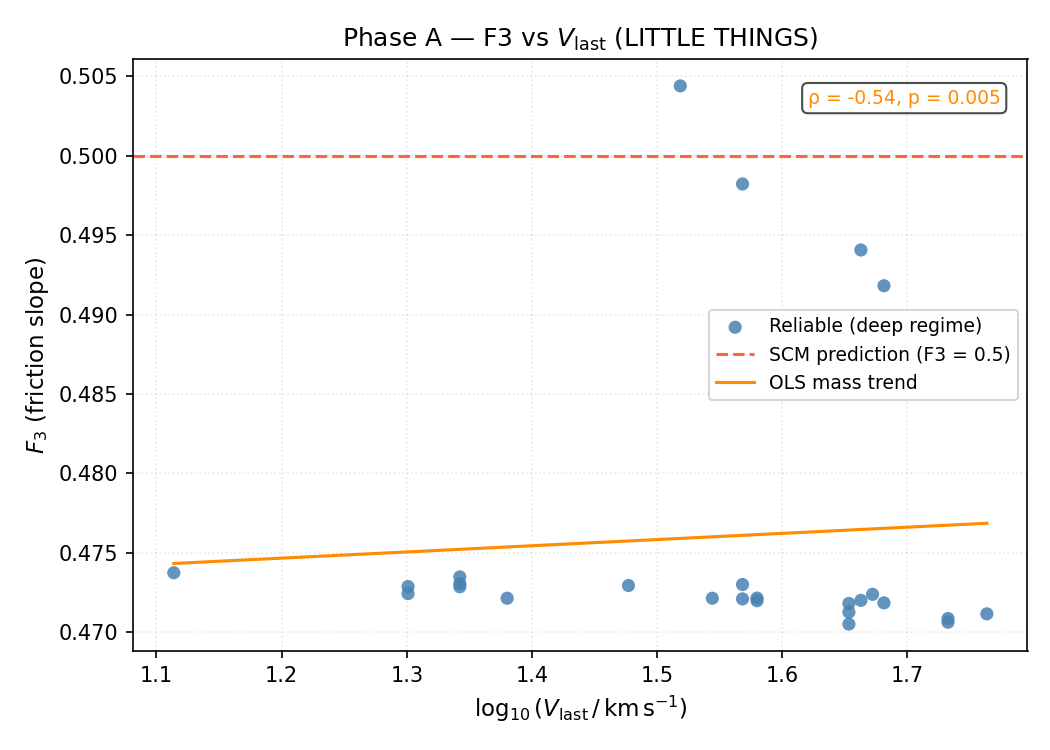
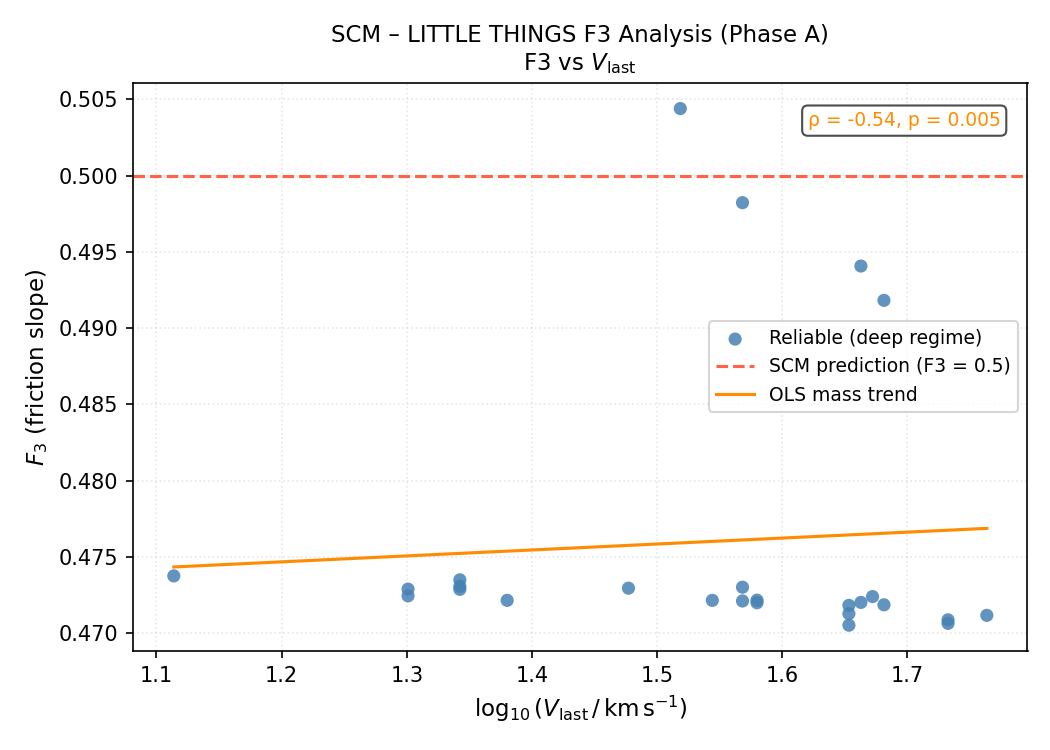
add ANALYSIS_TITLE, rename _save_faseA→_save_phaseA, strengthen threshold tests
Agent-Logs-Url: https://github.com/sergiocamaramadrid-cyber/Motor-de-Velos-SCM/sessions/d68a8b21-4a67-4b6f-82b2-01f2f682bac7

diff --git a/scripts/generate_little_things_scm.py b/scripts/generate_little_things_scm.py
@@ -1,5 +1,5 @@
 """
-scripts/generate_little_things_scm.py — SCM F3 analysis for LITTLE THINGS galaxies.
+scripts/generate_little_things_scm.py — SCM – LITTLE THINGS F3 Analysis (Phase A).
 
 Applies the F3 (friction slope) measurement to the LITTLE THINGS dwarf-galaxy
 sample using global photometric and kinematic properties.
@@ -32,8 +32,8 @@ Outputs written to --out DIR (default: results_little_things_scm):
   little_things_scm_catalog.csv   — full per-galaxy F3 catalog
   scm_clean_sample.csv            — reliable-fit subset
   scm_clean_with_residual.csv     — clean subset with explicit δF3 residual
-  summary.json                    — aggregate statistics
-  faseA_f3_vs_vlast.png           — Phase-A diagnostic: F3 vs log10(Vlast)
+  summary.json                    — aggregate statistics + analysis_title
+  faseA_f3_vs_vlast.png           — Phase A diagnostic: F3 vs log10(Vlast)
   scatter_f3_vlast.png            — scatter: F3 vs log10(Vlast)
   hist_f3.png                     — histogram of F3 values
   hist_delta_f3.png               — histogram of δF3 values
@@ -66,6 +66,7 @@ A0_DEFAULT: float = 1.2e-10        # characteristic acceleration (m/s²)
 DEEP_THRESHOLD_DEFAULT: float = 0.3  # deep regime: g_bar < threshold × a0
 
 EXPECTED_F3_MOND: float = 0.5      # expected friction slope in deep-MOND limit
+ANALYSIS_TITLE: str = "SCM \u2013 LITTLE THINGS F3 Analysis (Phase A)"
 
 # Required columns in the input CSV
 REQUIRED_COLS: list[str] = ["galaxy_id", "logM", "logVobs", "log_gbar", "log_j"]
@@ -366,6 +367,7 @@ def compute_summary(cat: pd.DataFrame) -> dict:
     corr_stats = compute_mass_correlation_stats(cat)
 
     return {
+        "analysis_title": ANALYSIS_TITLE,
         "n_galaxies": n_galaxies,
         "n_reliable": n_reliable,
         "f3_mean": f3_mean,
@@ -385,8 +387,8 @@ def compute_summary(cat: pd.DataFrame) -> dict:
 # Figures
 # ---------------------------------------------------------------------------
 
-def _save_faseA_f3_vs_vlast(cat: pd.DataFrame, out_path: Path) -> None:
-    """Phase-A diagnostic: F3 vs log10(Vlast), annotated with SCM prediction and
+def _save_phaseA_f3_vs_vlast(cat: pd.DataFrame, out_path: Path) -> None:
+    """Phase A diagnostic: F3 vs log10(Vlast), annotated with SCM prediction and
     OLS mass-trend line + Spearman ρ."""
     reliable = cat["reliable"]
     fig, ax = plt.subplots(figsize=(7, 5))
@@ -429,7 +431,7 @@ def _save_faseA_f3_vs_vlast(cat: pd.DataFrame, out_path: Path) -> None:
 
     ax.set_xlabel(r"$\log_{10}(V_{\rm last}\,/\,\rm km\,s^{-1})$", fontsize=11)
     ax.set_ylabel(r"$F_3$ (friction slope)", fontsize=11)
-    ax.set_title("Phase A — F3 vs $V_{\\rm last}$ (LITTLE THINGS)", fontsize=12)
+    ax.set_title(f"{ANALYSIS_TITLE}\nF3 vs $V_{{\\rm last}}$", fontsize=11)
     ax.legend(fontsize=9)
     ax.grid(True, alpha=0.3, linestyle=":")
     fig.tight_layout()
@@ -461,7 +463,7 @@ def _save_scatter_f3_vlast(cat: pd.DataFrame, out_path: Path) -> None:
 
     ax.set_xlabel(r"$\log_{10}(V_{\rm last}\,/\,\rm km\,s^{-1})$", fontsize=10)
     ax.set_ylabel(r"$F_3$", fontsize=10)
-    ax.set_title("F3 vs $V_{\\rm last}$  (LITTLE THINGS)", fontsize=11)
+    ax.set_title(f"F3 vs $V_{{\\rm last}}$  — LITTLE THINGS", fontsize=11)
     ax.legend(fontsize=8)
     ax.grid(True, alpha=0.25, linestyle=":")
     fig.tight_layout()
@@ -573,7 +575,7 @@ def run_little_things_scm(
 
     # Figures
     if not no_figures:
-        _save_faseA_f3_vs_vlast(cat, out_dir / "faseA_f3_vs_vlast.png")
+        _save_phaseA_f3_vs_vlast(cat, out_dir / "faseA_f3_vs_vlast.png")
         _save_scatter_f3_vlast(cat, out_dir / "scatter_f3_vlast.png")
         _save_hist_f3(cat, out_dir / "hist_f3.png")
         _save_hist_delta_f3(cat, out_dir / "hist_delta_f3.png")
@@ -625,7 +627,7 @@ def _parse_args(argv: list[str] | None = None) -> argparse.Namespace:
 def _print_summary(summary: dict) -> None:
     sep = "=" * 70
     print(sep)
-    print("  Motor de Velos SCM — LITTLE THINGS F3 Analysis")
+    print(f"  {ANALYSIS_TITLE}")
     print(sep)
     print(f"  Galaxies total  : {summary['n_galaxies']}")
     print(f"  Reliable (deep) : {summary['n_reliable']}")

diff --git a/tests/test_generate_little_things_scm.py b/tests/test_generate_little_things_scm.py
@@ -21,6 +21,7 @@ import pytest
 
 from scripts.generate_little_things_scm import (
     A0_DEFAULT,
+    ANALYSIS_TITLE,
     DEEP_THRESHOLD_DEFAULT,
     EXPECTED_F3_MOND,
     KPC_TO_M,
@@ -322,6 +323,7 @@ class TestRunLittleThingsScm:
         assert isinstance(data["consistent_mond"], bool)
         assert "spearman_f3_vlast_rho" in data
         assert "spearman_resid_vlast_rho" in data
+        assert data.get("analysis_title") == "SCM \u2013 LITTLE THINGS F3 Analysis (Phase A)"
 
     def test_missing_csv_raises(self, tmp_path):
         with pytest.raises(FileNotFoundError):
@@ -350,6 +352,16 @@ class TestRunLittleThingsScm:
         df = pd.read_csv(tmp_path / "scm_clean_sample.csv")
         mean_delta = df["delta_F3"].mean()
         assert abs(mean_delta) < 0.5, f"Unexpected mean δF3: {mean_delta}"
+
+
+class TestAnalysisTitle:
+    def test_title_value(self):
+        assert ANALYSIS_TITLE == "SCM \u2013 LITTLE THINGS F3 Analysis (Phase A)"
+
+    def test_title_in_summary(self, real_df):
+        cat = build_catalog(real_df)
+        s = compute_summary(cat)
+        assert s["analysis_title"] == ANALYSIS_TITLE
 
 
 # ---------------------------------------------------------------------------
@@ -430,7 +442,8 @@ class TestComputeMassCorrelationStats:
         assert stats["spearman_resid_vlast_p"] > 0.05
 
     def test_too_few_galaxies_returns_nan(self):
-        """Fewer than 5 reliable galaxies → all correlation keys are NaN."""
+        """Fewer than 5 reliable galaxies → all correlation keys are NaN.
+        Uses 4 total galaxies (all reliable) to test the n<5 boundary."""
         df = pd.DataFrame({
             "galaxy_id": ["G1", "G2", "G3", "G4"],
             "logM": [7.0, 7.5, 8.0, 8.5],
@@ -439,6 +452,21 @@ class TestComputeMassCorrelationStats:
             "log_j": [1.3, 1.4, 1.5, 1.6],
         })
         cat = build_catalog(df)
+        stats = compute_mass_correlation_stats(cat)
+        assert np.isnan(stats["spearman_f3_vlast_rho"])
+
+    def test_too_few_reliable_among_more_total(self):
+        """7 total galaxies but only 4 reliable → still returns NaN."""
+        df = pd.DataFrame({
+            "galaxy_id": [f"G{i}" for i in range(7)],
+            "logM": [7.0 + 0.3 * i for i in range(7)],
+            "logVobs": [1.3 + 0.1 * i for i in range(7)],
+            # First 4 deep (reliable), last 3 near Newtonian (not reliable)
+            "log_gbar": [-12.0, -11.8, -11.5, -11.2, -9.5, -9.3, -9.1],
+            "log_j": [1.3 + 0.1 * i for i in range(7)],
+        })
+        cat = build_catalog(df)
+        assert cat["reliable"].sum() == 4
         stats = compute_mass_correlation_stats(cat)
         assert np.isnan(stats["spearman_f3_vlast_rho"])
 
